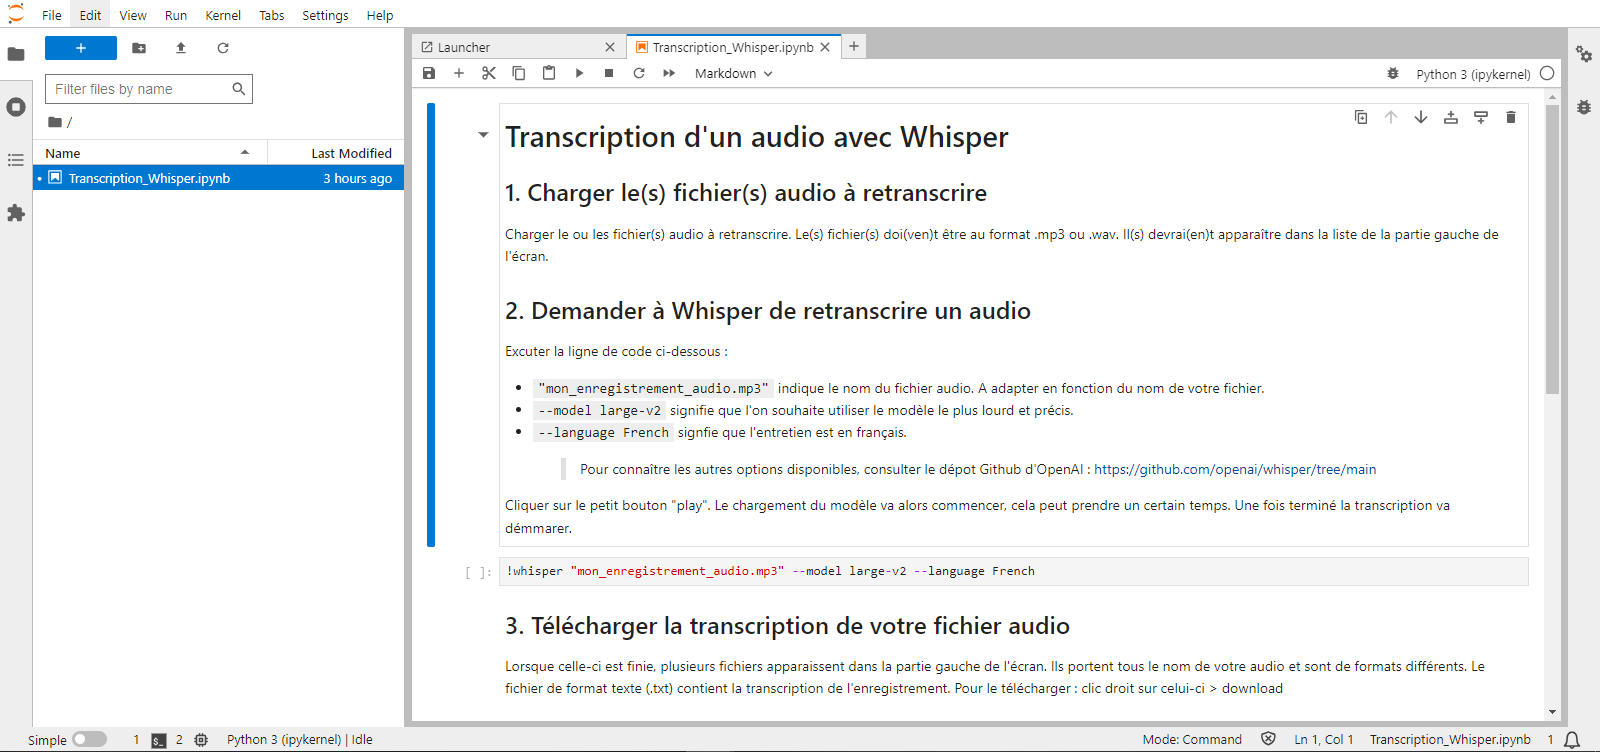
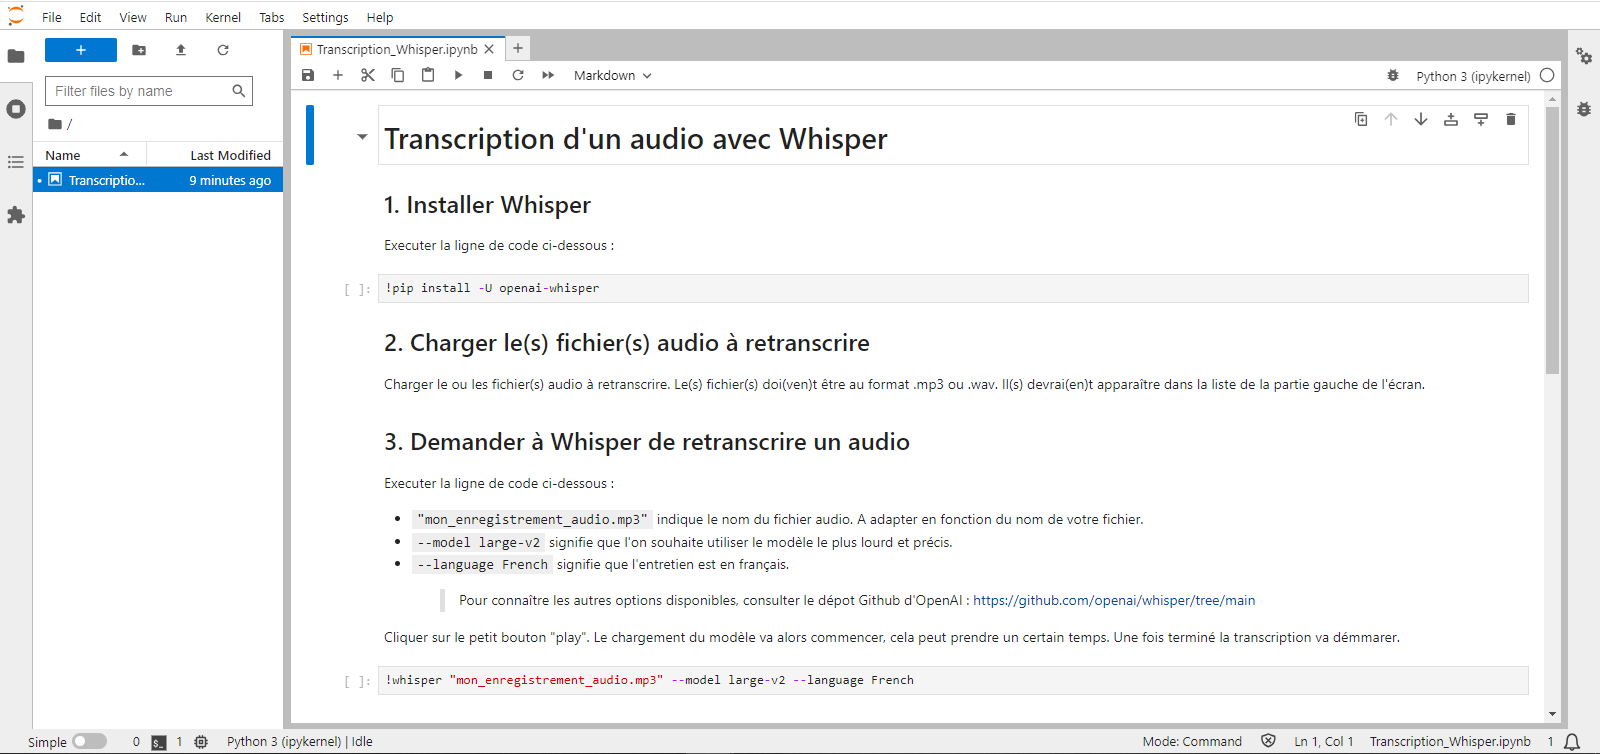
maj du ReadMe avec installation manuelle de Whisper

diff --git a/README.md b/README.md
@@ -20,7 +20,7 @@ L'utilisation du datalab du SSP Cloud est gratuite mais elle nécessite la créa
 
 ### Une très bonne protection des données (mais sans garantie !)
 
-Si Google Colab pose d'évidents problèmes de RGPD, l'utilisation du datalab n'est pas non plus exempt de limites en matière de protection des données. En particulier, bien que les technologies de protection utilisées soient de qualité, le SSP Cloud ne prèfère pas garantir la confidentialité des données stockées dans le coffre fort AWS (onglet "mes fichiers"). Vous prenez donc un risque (limité, mais existant) si vous chargez des enregistrements audio d'entretiens sociologiques sur celui-ci.
+Si Google Colab pose d'évidents problèmes de RGPD, l'utilisation du datalab n'est pas non plus exempt de limites en matière de protection des données. En particulier, bien que les technologies de protection utilisées soient de qualité, le SSP Cloud ne préfère pas garantir la confidentialité des données stockées dans le coffre fort AWS (onglet "mes fichiers"). Vous prenez donc un risque (limité, mais existant) si vous chargez des enregistrements audio d'entretiens sociologiques sur celui-ci.
 
 Pour autant, avec la méthode de transcription proposée ici, l'enregistrement audio et sa retranscription sous la forme de texte ne sont pas chargés dans le système de stockage du SSP Cloud mais seulement de manière confidentielle dans la mémoire temporaire d'un service dont la suppression est possible après chaque utilisation et est automatique après 24h, ils y sont donc en sécurité.
 
@@ -38,19 +38,19 @@ Dans l'environnement de travail du SSP Cloud, il est possible de lancer Python d
 
 Vous pouvez plus simplement suivre ces différentes étapes :
 
--   Lancer Python préconfiguré pour whisper en **copiant et collant** ce lien dans un navigateur :
+-   Lancer Python préconfiguré pour whisper[^readme-3] en **copiant et collant** ce lien dans un navigateur :
 
-    [https://datalab.sspcloud.fr/launcher/ide/jupyter-python-gpu?autoLaunch=true&onyxia.friendlyName=«Transcription%20Whisper%20»&resources.limits.nvidia\\.com/gpu=«4»&resources.limits.cpu=«40000m»&resources.limits.memory=«200Gi»&git.token=«»&git.name=«»&git.email=«»&init.personalInit=«https%3A%2F%2Fraw.githubusercontent.com%2Fanoukmartin%2FTranscription-Whisper-x-SSP-Cloud%2Fmain%2FInitPy.sh»](https://datalab.sspcloud.fr/launcher/ide/jupyter-python-gpu?autoLaunch=true&onyxia.friendlyName=«Transcription%20Whisper%20»&resources.limits.nvidia.com/gpu=«4»&resources.limits.cpu=«40000m»&resources.limits.memory=«200Gi»&git.token=«»&git.name=«»&git.email=«»&init.personalInit=«https%3A%2F%2Fraw.githubusercontent.com%2Fanoukmartin%2FTranscription-Whisper-x-SSP-Cloud%2Fmain%2FInitPy.sh»){.uri}
+    [https://datalab.sspcloud.fr/launcher/ide/jupyter-python-gpu?autoLaunch=true&onyxia.friendlyName=«Transcription%20Whisper»&init.personalInit=«https%3A%2F%2Fraw.githubusercontent.com%2Fanoukmartin%2FTranscription-Whisper-x-SSP-Cloud%2Fmain%2FInitPy.sh»&resources.limits.nvidia\\.com/gpu=«4»&resources.limits.cpu=«40000m»&resources.limits.memory=«200Gi»&git.name=«»&git.token=«»&git.email=«»](https://datalab.sspcloud.fr/launcher/ide/jupyter-python-gpu?autoLaunch=true&onyxia.friendlyName=«Transcription%20Whisper»&init.personalInit=«https%3A%2F%2Fraw.githubusercontent.com%2Fanoukmartin%2FTranscription-Whisper-x-SSP-Cloud%2Fmain%2FInitPy.sh»&resources.limits.nvidia\.com/gpu=«4»&resources.limits.cpu=«40000m»&resources.limits.memory=«200Gi»&git.name=«»&git.token=«»&git.email=«»)
 
-    Dans ce cas, un nouveau service nommé ![](images/Capture3.PNG){width="158"} apparaît dans l'onglet ![](images/Capture2.PNG){width="120" height="30"} de votre compte SSP Cloud. Ce service est pré-configuré pour que l'utilisation de Whisper y soit facile[^readme-3].
+    Dans ce cas, un nouveau service nommé ![](images/Capture3.PNG){width="158"} apparaît dans l'onglet ![](images/Capture2.PNG){width="120" height="30"} de votre compte SSP Cloud. Ce service est pré-configuré pour que l'utilisation de Whisper y soit facile.
 
--   Une fois que ce service est prêt (cela peut prendre un peu de temps car le chargement de Whisper est long) pour l'ouvrir, cliquer sur le bouton ![](images/Capture5.PNG){width="67"}. Une boite de dialogue s'ouvre.
+-   Une fois que ce service est prêt pour l'ouvrir, cliquer sur le bouton ![](images/Capture5.PNG){width="67"}. Une boite de dialogue s'ouvre.
 
 -   Cliquer sur ![](images/Capture6.PNG){width="231"} puis sur ![](images/Capture7.PNG){width="242"}. Une page s'ouvre.
 
 -   Coller le mot de passe dans le champ destiné pour se connecter ![](images/Capture8.PNG){width="234"} .
 
-[^readme-3]: Ce service est pré-configuré de sorte à obtenir l'assistance d'un GPU et à disposer du maximum de ressources possible en CPU et mémoire vive en cas de besoin. L'installation de whisper et de ffmpeg se fait automatiquement lors du lancement du service. Un notebook Jupyter avec le code python nécessaire pour réaliser la transcription est également copié. Les informations précises sur ces réglages sont disponibles en cliquant sur ![](images/Capture4.PNG) une fois que le service est prêt.
+[^readme-3]: Ce service est pré-configuré de sorte à allouer des ressources CPU, GPU et RAM importantes en cas de besoin. L'installation des dépendances de Whisper est automatique, et un notebook Jupyter avec les instructions de transcription est copié dans l'environnement de travail. Les informations précises sur ces réglages sont disponibles en cliquant sur "i" une fois que le service est prêt.
 
 ## Etape 2 : Transcrire un fichier audio
 
@@ -68,7 +68,19 @@ Suivre ainsi les instructions indiquées sur le document.
 
 ### ⟹ *Un exemple avec ["AH LALA" de Meryl](https://www.youtube.com/watch?v=XfIefINb84U&ab_channel=FIYAHRECORDS).*
 
-#### *1. Charger le(s) fichier(s) audio à retranscrire*
+#### *1.* Installer Whisper 
+
+Executer la ligne de code ci-dessous en cliquant sur le bouton ![](images/Capture15.PNG) ou avec ctrl + entrer:
+
+``` python
+!pip install -U openai-whisper
+```
+
+L'installation de Whisper commence :
+
+![](images/Capture10c.PNG)
+
+#### *2. Charger le(s) fichier(s) audio à retranscrire*
 
 *Charger le ou les fichier(s) audio à retranscrire en utilisant le bouton ![](images/Capture11.PNG){width="36"}. Le(s) fichier(s) doi(ven)t être au format .mp3 ou .wav. Si votre fichier est volumineux ou que vous souhaiter en charger plusieurs, il est préférable de disposer d'une bonne connexion à internet. Il(s) devrai(en)t apparaître dans la liste de la partie gauche de l'écran.*
 
